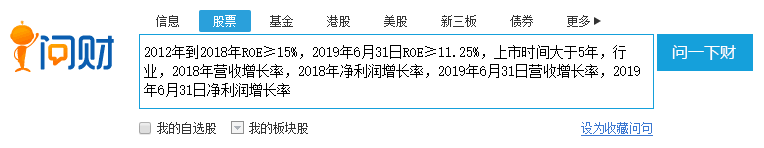
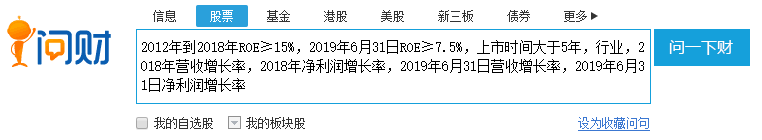
fix[pick_good_stocks]: error data

diff --git a/investment/pick_good_stocks/README.md b/investment/pick_good_stocks/README.md
@@ -41,11 +41,11 @@
 
 如果我们在 2019 年 09 月 01 日这个时间节点来筛选白马股，满足连续 7 年 ROE 大于等于 15% 的年份就应该是 2012 年 - 2018 年。  
 
-考虑到 2019 年 09 月 01 日的时候，2019 年的第二季报都已经出了，所以，我们还需要加上 2019 年 2 季度的 ROE 大于等于11.25（15/4*2=11.25）这一条。  
+考虑到 2019 年 09 月 01 日的时候，2019 年的第二季报都已经出了，所以，我们还需要加上 2019 年 2 季度的 ROE 大于等于7.5（15/4*2=7.5）这一条。  
 
 当然，别忘记我们还要把上市时间不满 5 年的公司排除。  
 
-因此，在 i问财中，我们需要输入的是“**2012年到2018年ROE≥15%，2019年6月31日ROE≥11.25%，上市时间大于5年**”。  
+因此，在 i问财中，我们需要输入的是“**2012年到2018年ROE≥15%，2019年6月31日ROE≥7.5%，上市时间大于5年**”。  
 
 第二个步骤，剔除周期股，我们依靠公司所处行业来判断，因此，在 i问财搜索中我们需要加上“**行业**”，把行业信息带出来。  
 
@@ -61,9 +61,9 @@
 
 #### 获取数据  
 
-进入 i问财首页，在搜索框输入“2012年到2018年ROE≥15%，2019年6月31日ROE≥11.25%，上市时间大于5年，行业，2018年营收增长率，2018年净利润增长率，2019年6月31日营收增长率，2019年6月31日净利润增长率”，点击“问一下财”。 
+进入 i问财首页，在搜索框输入“2012年到2018年ROE≥15%，2019年6月31日ROE≥7.5%，上市时间大于5年，行业，2018年营收增长率，2018年净利润增长率，2019年6月31日营收增长率，2019年6月31日净利润增长率”，点击“问一下财”。 
 
-第二步，在搜索框输入“**2012年到2018年ROE≥15%，2019年6月31日ROE≥11.25%，上市时间大于5年，行业，2018年营收增长率，2018年净利润增长率，2019年6月31日营收增长率，2019年6月31日净利润增长率**”，点击“问一下财”。 
+第二步，在搜索框输入“**2012年到2018年ROE≥15%，2019年6月31日ROE≥7.5%，上市时间大于5年，行业，2018年营收增长率，2018年净利润增长率，2019年6月31日营收增长率，2019年6月31日净利润增长率**”，点击“问一下财”。 
 
 ![](./images/search_in_iwencai.jpg)
 
